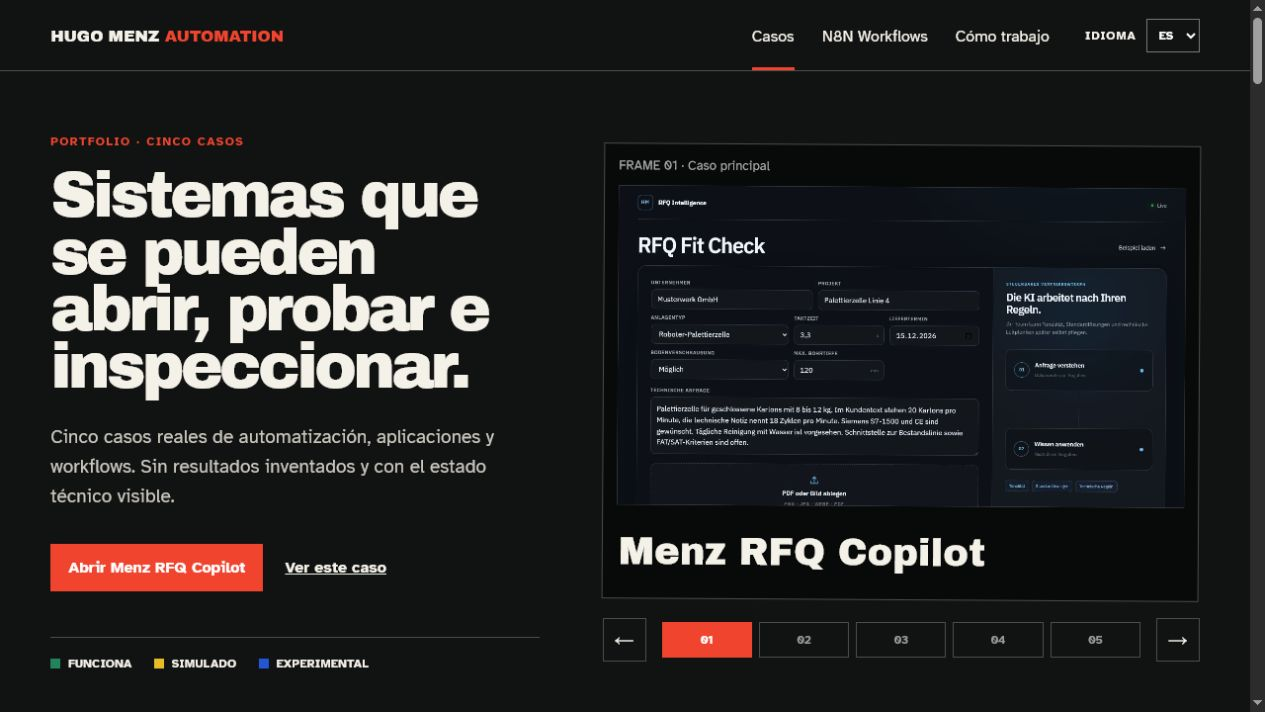
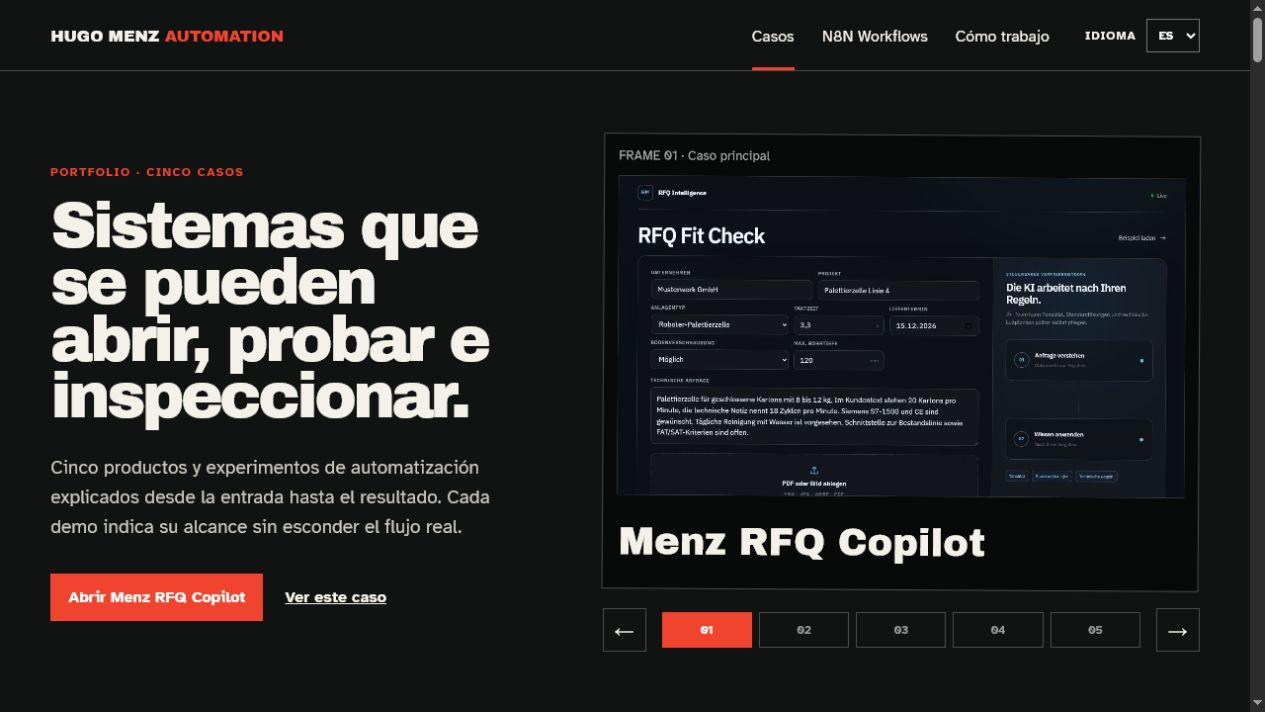
Clarify project flows and redesign case layouts

diff --git a/src/app.js b/src/app.js
@@ -8,23 +8,39 @@ const projectMeta = {
   rfq: {
     image: 'rfq.png', workflow: 'rfq-workflow.png', n8n: 'n8n-rfq.jpg', index: '01', short: 'RFQ',
     demo: 'https://hugomenz.github.io/rfq-intelligence-live/', repo: 'https://github.com/hugomenz/rfq-intelligence-live',
+    platforms: ['custom', 'n8n', 'github'],
   },
   rag: {
     image: 'rag-security.png', workflow: 'rag-workflow.png', n8n: 'n8n-rag.jpg', index: '02', short: 'RAG',
     demo: 'https://hugomenz.github.io/second-brain/', repo: 'https://github.com/hugomenz/second-brain',
+    platforms: ['custom', 'n8n', 'supabase', 'obsidian', 'github'],
   },
   fridge: {
     image: 'fridgeflow.png', workflow: 'fridge-workflow.png', n8n: 'n8n-fridge.jpg', index: '03', short: 'FRIDGE',
     demo: 'https://hugomenz.github.io/fridge-flow/', repo: 'https://github.com/hugomenz/fridge-flow',
+    platforms: ['custom', 'n8n', 'telegram', 'supabase'],
   },
   agent: {
     image: 'agent-observatory.png', workflow: 'agent-workflow.png', n8n: 'n8n-agent.jpg', index: '04', short: 'AGENTS',
-    demo: 'https://hugomenz.github.io/agent-chaos-lab/logger/', repo: 'https://github.com/hugomenz/agent-chaos-lab',
+    demo: 'https://hugomenz.github.io/agent-chaos-lab/exp-app/', secondaryDemo: 'https://hugomenz.github.io/agent-chaos-lab/logger/',
+    imageLink: 'https://hugomenz.github.io/agent-chaos-lab/logger/', repo: 'https://github.com/hugomenz/agent-chaos-lab',
+    platforms: ['custom', 'n8n', 'supabase', 'github'],
   },
   music: {
     image: 'music-school.png', workflow: 'music-workflow.png', n8n: null, index: '05', short: 'MUSIC',
     demo: 'https://hugomenz.github.io/music-school-automation/', repo: 'https://github.com/hugomenz/music-school-automation',
+    platforms: ['custom', 'n8n', 'telegram'], extensionPlatform: 'twilio',
   },
+};
+
+const platformMeta = {
+  custom: { mark: 'HM', label: 'custom' },
+  n8n: { icon: 'https://cdn.simpleicons.org/n8n/EA4B71', label: 'n8n' },
+  telegram: { icon: 'https://cdn.simpleicons.org/telegram/26A5E4', label: 'telegram' },
+  supabase: { icon: 'https://cdn.simpleicons.org/supabase/3FCF8E', label: 'supabase' },
+  obsidian: { icon: 'https://cdn.simpleicons.org/obsidian/7C3AED', label: 'obsidian' },
+  github: { icon: 'https://cdn.simpleicons.org/github/FFFFFF', label: 'github' },
+  twilio: { icon: 'https://cdn.simpleicons.org/twilio/F22F46', label: 'twilio' },
 };
 
 let messages = null;
@@ -71,8 +87,15 @@ function updateRouteLinks(language) {
   });
 }
 
-function statusRow(label, value, type) {
-  return `<div class="truth-row"><span><i class="${type}"></i>${label}</span><p>${value}</p></div>`;
+function renderPlatforms(keys) {
+  return `<ul class="platform-list">${keys.map((key) => {
+    const platform = platformMeta[key];
+    const label = messages.platforms[platform.label];
+    const visual = platform.icon
+      ? `<img src="${platform.icon}" alt="" loading="lazy" />`
+      : `<span class="platform-mark" aria-hidden="true">${platform.mark}</span>`;
+    return `<li>${visual}<span>${label}</span></li>`;
+  }).join('')}</ul>`;
 }
 
 function updateHeroSlide(position) {
@@ -83,7 +106,7 @@ function updateHeroSlide(position) {
   const frame = document.querySelector('#hero-frame');
   if (!frame) return;
 
-  frame.href = meta.demo;
+  frame.href = meta.imageLink || meta.demo;
   frame.setAttribute('aria-label', `${messages.actions.openDemo}: ${project.name}`);
   document.querySelector('#hero-frame-index').textContent = `${messages.hero.frame} ${meta.index} · ${project.role}`;
   document.querySelector('#hero-image').src = assetUrl(meta.image);
@@ -137,29 +160,34 @@ function renderProjects() {
     const project = messages.projects[key];
     const meta = projectMeta[key];
     return `<article id="project-${key}" class="project ${key === 'rfq' ? 'principal' : ''}" data-scroll-section data-nav-label="${project.name}">
+      <header class="project-heading">
+        <div class="project-number">${meta.index}</div>
+        <div><p class="eyebrow">${project.role}</p><h2>${project.name}</h2><p class="summary">${project.summary}</p></div>
+      </header>
       <div class="project-visuals">
-        <a class="project-image" href="${meta.demo}" aria-label="${messages.actions.openDemo}: ${project.name}">
-          <span>${messages.hero.frame} ${meta.index} · ${project.role}</span><img src="${assetUrl(meta.image)}" alt="${project.imageAlt}" loading="lazy" />
+        <a class="project-image" href="${meta.imageLink || meta.demo}" aria-label="${messages.actions.openDemo}: ${project.name}">
+          <span>${messages.hero.frame} ${meta.index} · ${project.visualLabel}</span><img src="${assetUrl(meta.image)}" alt="${project.imageAlt}" loading="lazy" />
         </a>
         <button class="workflow-image workflow-zoom" type="button" data-open-dialog="${key}" data-dialog-kind="diagram" aria-label="${messages.workflow.zoom}: ${project.name}">
           <span>${messages.workflow.label} · ${messages.workflow.zoom}</span><img src="${assetUrl(meta.workflow)}" alt="${messages.workflow.diagramAlt}: ${project.name}" loading="lazy" />
         </button>
       </div>
-      <div class="project-copy">
-        <div class="project-number">${meta.index}</div><h2>${project.name}</h2><p class="summary">${project.summary}</p>
-        <dl>
-          <div><dt>${messages.labels.problem}</dt><dd>${project.problem}</dd></div>
-          <div><dt>${messages.labels.solution}</dt><dd>${project.solution}</dd></div>
-          <div><dt>${messages.labels.how}</dt><dd>${project.how}</dd></div>
-          <div><dt>${messages.labels.try}</dt><dd>${project.try}</dd></div>
-        </dl>
-        <div class="truth-table">
-          ${statusRow(messages.status.working, project.working, 'working')}
-          ${statusRow(messages.status.simulated, project.simulated, 'simulated')}
-          ${statusRow(messages.status.experimental, project.experimental, 'experimental')}
+      <div class="project-content-grid">
+        <div class="project-copy">
+          <dl>
+            <div><dt>${messages.labels.problem}</dt><dd>${project.problem}</dd></div>
+            <div><dt>${messages.labels.solution}</dt><dd>${project.solution}</dd></div>
+            <div><dt>${messages.labels.how}</dt><dd>${project.how}</dd></div>
+          </dl>
+          <div class="demo-note"><p class="eyebrow">${messages.labels.try}</p><p>${project.try}</p></div>
         </div>
-        <p class="tech"><b>${messages.labels.technology}</b> ${project.tech}</p>
-        <div class="project-actions"><a class="primary" href="${meta.demo}">${messages.actions.openDemo}</a><a href="${routeUrl('workflows', document.documentElement.lang, `workflow-${key}`)}">${messages.actions.viewWorkflow}</a><a href="${meta.repo}">${messages.actions.openRepo}</a></div>
+        <aside class="project-details">
+          <div class="flow-card"><p class="eyebrow">${messages.labels.flow}</p><ol>${project.flow.map((item) => `<li>${item}</li>`).join('')}</ol></div>
+          <div class="scope-note"><p class="eyebrow">${messages.labels.scope}</p><p>${project.scope}</p></div>
+          <div class="platforms"><p class="eyebrow">${messages.labels.platforms}</p>${renderPlatforms(meta.platforms)}</div>
+          ${project.extension ? `<div class="project-extension"><div>${renderPlatforms([meta.extensionPlatform])}</div><p><b>${messages.labels.extension}</b> ${project.extension}</p></div>` : ''}
+          <div class="project-actions"><a class="primary" href="${meta.demo}">${messages.actions.openDemo}</a>${meta.secondaryDemo ? `<a href="${meta.secondaryDemo}">${messages.actions.openObservatory}</a>` : ''}<a href="${routeUrl('workflows', document.documentElement.lang, `workflow-${key}`)}">${messages.actions.viewWorkflow}</a><a href="${meta.repo}">${messages.actions.openRepo}</a></div>
+        </aside>
       </div>
     </article>`;
   }).join('');
@@ -176,20 +204,23 @@ function renderWorkflowCases() {
     const visualLabel = meta.n8n ? messages.workflowPage.labels.editor : messages.workflowPage.labels.diagram;
     return `<article id="workflow-${key}" class="workflow-case" data-scroll-section data-nav-label="${project.name}">
       <header class="workflow-case-head"><p class="eyebrow">${meta.index} · ${project.name}</p><h2>${data.title}</h2><p>${data.summary}</p></header>
-      <div class="workflow-case-grid">
-        <button class="workflow-screenshot" type="button" data-open-dialog="${key}" data-dialog-kind="workflow" aria-label="${messages.workflow.zoom}: ${data.title}">
-          <span>${visualLabel} · ${messages.workflow.zoom}</span><img src="${assetUrl(visual)}" alt="${data.imageAlt}" loading="lazy" />
-        </button>
-        <div class="workflow-explanation">
+      <button class="workflow-screenshot" type="button" data-open-dialog="${key}" data-dialog-kind="workflow" aria-label="${messages.workflow.zoom}: ${data.title}">
+        <span>${visualLabel} · ${messages.workflow.zoom}</span><img src="${assetUrl(visual)}" alt="${data.imageAlt}" loading="lazy" />
+      </button>
+      <div class="workflow-explanation">
+        <div>
           <dl>
             <div><dt>${messages.workflowPage.labels.why}</dt><dd>${data.why}</dd></div>
             <div><dt>${messages.workflowPage.labels.purpose}</dt><dd>${data.purpose}</dd></div>
             <div><dt>${messages.workflowPage.labels.how}</dt><dd>${data.how}</dd></div>
           </dl>
+        </div>
+        <aside class="workflow-details">
           <div class="workflow-set"><p class="eyebrow">${messages.workflowPage.labels.set}</p><ul>${data.set.map((item) => `<li>${item}</li>`).join('')}</ul></div>
           <p class="workflow-state"><b>${messages.workflowPage.labels.state}</b> ${data.state}</p>
-          <div class="project-actions"><a class="primary" href="${meta.demo}">${messages.actions.openDemo}</a><a href="${meta.repo}">${messages.actions.openRepo}</a></div>
-        </div>
+          <div class="platforms"><p class="eyebrow">${messages.labels.platforms}</p>${renderPlatforms(meta.platforms)}</div>
+          <div class="project-actions"><a class="primary" href="${meta.demo}">${messages.actions.openDemo}</a>${meta.secondaryDemo ? `<a href="${meta.secondaryDemo}">${messages.actions.openObservatory}</a>` : ''}<a href="${meta.repo}">${messages.actions.openRepo}</a></div>
+        </aside>
       </div>
     </article>`;
   }).join('');

diff --git a/src/app.css b/src/app.css
@@ -54,12 +54,6 @@ main { max-width: 1600px; margin: 0 auto; padding: 0 clamp(20px, 4vw, 64px); }
 .hero-copy > p:not(.eyebrow), .page-hero-copy p { max-width: 60ch; color: #c9c6bd; font-size: 1.2rem; line-height: 1.55; }
 .hero-actions, .project-actions { display: flex; flex-wrap: wrap; align-items: center; gap: 22px; margin-top: 32px; }
 .hero-actions a, .project-actions a { font-weight: 700; }
-.legend { display: flex; flex-wrap: wrap; gap: 22px; margin-top: 46px; padding-top: 18px; border-top: 1px solid var(--rule); }
-.legend span, .truth-row span { display: flex; align-items: center; gap: 8px; font-size: .78rem; text-transform: uppercase; }
-.legend i, .truth-row i { display: block; width: 10px; height: 10px; }
-.working { background: var(--green); }
-.simulated { background: var(--yellow); }
-.experimental { background: var(--blue); }
 
 .hero-showcase { align-self: center; min-width: 0; }
 .hero-frame, .project-image, .workflow-image, .workflow-screenshot { display: flex; min-width: 0; flex-direction: column; padding: 14px; border: 1px solid var(--rule); background: var(--panel); text-align: left; text-decoration: none; }
@@ -81,27 +75,40 @@ main { max-width: 1600px; margin: 0 auto; padding: 0 clamp(20px, 4vw, 64px); }
 .index-strip a + a { padding-left: 22px; border-left: 1px solid var(--rule); }
 .index-strip a span { color: var(--red); }
 
-.project { display: grid; grid-template-columns: minmax(420px, 1.15fr) minmax(340px, .85fr); gap: clamp(34px, 6vw, 90px); padding: 90px 0; border-bottom: 1px solid var(--rule); }
-.project:nth-child(even) { grid-template-columns: minmax(340px, .85fr) minmax(420px, 1.15fr); }
-.project:nth-child(even) .project-visuals { grid-column: 2; }
-.project:nth-child(even) .project-copy { grid-row: 1; grid-column: 1; }
-.project-visuals { display: grid; align-self: start; min-width: 0; gap: 16px; }
+.project { padding: 100px 0; border-bottom: 1px solid var(--rule); }
+.project-heading { display: grid; grid-template-columns: 90px minmax(0, 1fr); gap: clamp(24px, 4vw, 64px); max-width: 1200px; margin-bottom: 42px; }
+.project-heading .eyebrow { margin-bottom: 12px; }
+.project-heading h2 { margin-top: 0; }
+.project-heading .summary { max-width: 60ch; margin-bottom: 0; }
+.project-visuals { display: grid; grid-template-columns: 1fr; align-items: stretch; min-width: 0; gap: 16px; }
 .project-image { align-self: start; }
+.project-image img { aspect-ratio: 16 / 8.5; }
 .workflow-image { width: 100%; cursor: zoom-in; }
-.workflow-image img { display: block; width: 100%; height: auto; max-height: 360px; background: white; object-fit: contain; }
+.workflow-image img { display: block; width: 100%; height: auto; max-height: 230px; background: white; object-fit: contain; }
 .workflow-image:hover, .workflow-image:focus-visible { border-color: var(--red); }
 .project-number { color: var(--red); font-family: 'Archivo Black', sans-serif; font-size: 1.1rem; }
 .project h2, .workflow-case h2, .approach-section h2, .approach-closing h2 { margin: 18px 0; font-family: 'Archivo Black', sans-serif; font-size: clamp(2.6rem, 5vw, 5.5rem); line-height: .93; letter-spacing: -.05em; }
 .summary { color: #d3d0c8; font-size: 1.25rem; line-height: 1.5; }
-.project dl, .workflow-explanation dl { margin: 34px 0 0; border-top: 1px solid var(--rule); }
+.project-content-grid, .workflow-explanation { display: grid; grid-template-columns: minmax(0, 1fr) minmax(360px, .82fr); gap: clamp(40px, 7vw, 110px); margin-top: 48px; }
+.project dl, .workflow-explanation dl { margin: 0; border-top: 1px solid var(--rule); }
 .project dl div, .workflow-explanation dl div { display: grid; grid-template-columns: 110px 1fr; gap: 18px; padding: 18px 0; border-bottom: 1px solid var(--rule); }
 .project dt, .workflow-explanation dt { color: #999; font-size: .74rem; font-weight: 700; text-transform: uppercase; }
 .project dd, .workflow-explanation dd { margin: 0; line-height: 1.5; }
-.truth-table { margin-top: 28px; }
-.truth-row { display: grid; grid-template-columns: 130px 1fr; gap: 18px; padding: 13px 0; border-bottom: 1px solid var(--rule); }
-.truth-row p { margin: 0; color: #ccc; }
-.tech { color: #aaa; line-height: 1.5; }
-.tech b { color: white; }
+.demo-note, .scope-note { margin-top: 24px; padding: 22px; border: 1px solid var(--rule); background: #161919; }
+.demo-note p:last-child, .scope-note p:last-child { margin: 12px 0 0; color: #ccc; line-height: 1.5; }
+.flow-card { padding: 26px; border: 1px solid var(--rule); background: var(--panel); }
+.flow-card ol { display: grid; gap: 0; margin: 18px 0 0; padding: 0; list-style: none; counter-reset: flow; }
+.flow-card li { position: relative; padding: 14px 0 14px 48px; border-top: 1px solid #333; color: #ddd; line-height: 1.4; counter-increment: flow; }
+.flow-card li::before { position: absolute; top: 12px; left: 0; color: var(--red); font-family: 'Archivo Black', sans-serif; content: counter(flow, decimal-leading-zero); }
+.platforms { margin-top: 28px; }
+.platform-list { display: flex; flex-wrap: wrap; gap: 10px; margin: 14px 0 0; padding: 0; list-style: none; }
+.platform-list li { display: inline-flex; align-items: center; gap: 9px; min-height: 42px; padding: 8px 12px; border: 1px solid var(--rule); background: var(--panel); color: #ddd; font-size: .86rem; font-weight: 700; }
+.platform-list img, .platform-mark { width: 24px; height: 24px; flex: 0 0 auto; }
+.platform-mark { display: grid; place-items: center; background: var(--red); color: white; font-size: .62rem; }
+.project-extension { display: grid; grid-template-columns: auto 1fr; align-items: center; gap: 16px; margin-top: 22px; padding: 16px; border: 1px dashed #777; }
+.project-extension .platform-list { margin: 0; }
+.project-extension .platform-list li { padding: 7px 10px; }
+.project-extension p { margin: 0; color: #ccc; line-height: 1.45; }
 
 .page-hero { padding: clamp(80px, 11vw, 160px) 0 90px; border-bottom: 1px solid var(--rule); }
 .page-hero h1 { max-width: 13ch; }
@@ -113,10 +120,10 @@ main { max-width: 1600px; margin: 0 auto; padding: 0 clamp(20px, 4vw, 64px); }
 .workflow-case-head .eyebrow { grid-row: 1 / span 2; padding-top: 14px; }
 .workflow-case-head h2 { margin: 0; }
 .workflow-case-head > p:last-child { max-width: 62ch; margin: 0; color: #ccc; font-size: 1.1rem; line-height: 1.5; }
-.workflow-case-grid { display: grid; grid-template-columns: minmax(470px, 1.2fr) minmax(340px, .8fr); align-items: start; gap: clamp(34px, 6vw, 90px); }
 .workflow-screenshot { width: 100%; cursor: zoom-in; }
 .workflow-screenshot:hover, .workflow-screenshot:focus-visible { border-color: var(--red); }
-.workflow-screenshot img { display: block; width: 100%; height: auto; background: #111; object-fit: contain; }
+.workflow-screenshot img { display: block; width: 100%; height: auto; max-height: 760px; background: #111; object-fit: contain; }
+.workflow-details { min-width: 0; }
 .workflow-set { margin-top: 28px; padding: 22px; border: 1px solid var(--rule); background: var(--panel); }
 .workflow-set ul { display: grid; gap: 8px; margin: 14px 0 0; padding-left: 20px; color: #ccc; }
 .workflow-state { padding: 18px 0; border-bottom: 1px solid var(--rule); color: #ccc; line-height: 1.5; }
@@ -165,9 +172,7 @@ footer { display: flex; justify-content: space-between; gap: 30px; padding: 28px
 @media (max-width: 1050px) {
   .hero { grid-template-columns: 1fr; min-height: auto; }
   .hero-frame { transform: none; }
-  .project, .project:nth-child(even), .workflow-case-grid { grid-template-columns: 1fr; }
-  .project:nth-child(even) .project-visuals, .project:nth-child(even) .project-copy { grid-row: auto; grid-column: auto; }
-  .project-image img { aspect-ratio: 16 / 9; }
+  .project-content-grid, .workflow-explanation { grid-template-columns: 1fr; }
   .page-hero-copy, .workflow-case-head { grid-template-columns: 1fr; }
   .workflow-case-head .eyebrow { grid-row: auto; }
   .approach-section { grid-template-columns: 64px 1fr; }
@@ -191,8 +196,13 @@ footer { display: flex; justify-content: space-between; gap: 30px; padding: 28px
   .index-strip { display: grid; grid-template-columns: 1fr 1fr; white-space: normal; }
   .index-strip a, .index-strip a + a { padding: 14px 10px; border: 0; border-bottom: 1px solid var(--rule); }
   .project, .workflow-case { padding: 64px 0; }
+  .project-heading { grid-template-columns: 1fr; gap: 12px; }
+  .project-visuals { grid-template-columns: 1fr; }
+  .project-image img { aspect-ratio: 16 / 10; }
+  .workflow-image img { min-height: 130px; max-height: 220px; }
   .project h2, .workflow-case h2, .approach-section h2 { font-size: clamp(2.6rem, 13vw, 4.4rem); }
-  .project dl div, .truth-row, .workflow-explanation dl div { grid-template-columns: 1fr; gap: 6px; }
+  .project dl div, .workflow-explanation dl div { grid-template-columns: 1fr; gap: 6px; }
+  .project-content-grid, .workflow-explanation { gap: 32px; margin-top: 32px; }
   .workflow-case-head { margin-bottom: 28px; }
   .page-hero { padding: 70px 0 60px; }
   .approach-section { grid-template-columns: 1fr; padding: 64px 0; }

diff --git a/src/index.html b/src/index.html
@@ -28,7 +28,6 @@
           <h1 id="hero-title" data-i18n="hero.title">Sistemas que se pueden abrir, probar e inspeccionar.</h1>
           <p data-i18n="hero.lead">Cinco casos reales de automatización, aplicaciones y workflows. Sin resultados inventados y con el estado técnico visible.</p>
           <div class="hero-actions"><a id="hero-open" class="primary"></a><a id="hero-view"></a></div>
-          <div class="legend"><span><i class="working"></i><b data-i18n="status.working">Funciona</b></span><span><i class="simulated"></i><b data-i18n="status.simulated">Simulado</b></span><span><i class="experimental"></i><b data-i18n="status.experimental">Experimental</b></span></div>
         </div>
 
         <div class="hero-showcase" aria-live="polite">

diff --git a/DESIGN.md b/DESIGN.md
@@ -2,26 +2,26 @@
 
 ## World and colour
 
-The portfolio is an inspection contact sheet on a near-black proofing table (`#111313`). Real project screenshots sit in darker mounts with thin grey proofing rules; warm paper (`#f4f1e8`) provides the primary type colour. Vermilion (`#f0442e`) acts like a grease-pencil mark for identity, numbering and primary actions. Green (`#23835c`), yellow (`#e8bc26`) and blue (`#2256d7`) consistently identify working, simulated and experimental status.
+The portfolio is an inspection contact sheet on a near-black proofing table (`#111313`). Real project screenshots sit in darker mounts with thin grey proofing rules; warm paper (`#f4f1e8`) provides the primary type colour. Vermilion (`#f0442e`) acts like a grease-pencil mark for identity, numbering and primary actions. Platform colours appear only inside their logos.
 
 ## Typography
 
-Archivo Black carries the brand, oversized thesis and project identities with tight tracking and compressed line height. Atkinson Hyperlegible carries explanations, captions, evidence definitions and truth tables at regular and bold weights. Frame captions, index labels and status labels use compact uppercase text; summaries are larger and more open.
+Archivo Black carries the brand, oversized thesis and project identities with tight tracking and compressed line height. Atkinson Hyperlegible carries explanations, captions, definitions and scope notes at regular and bold weights. Frame captions and index labels use compact uppercase text; summaries are larger and more open.
 
 ## Composition and spacing
 
-The content is centered at a maximum width of 1600px with fluid 20–64px gutters. The first viewport pairs the thesis with a five-project slider; its image, title, demo CTA and case anchor change together. A ruled index introduces five project sections, which alternate screenshot and evidence copy. N8N Workflows and the delivery approach live on separate routes so the home page remains focused on the cases.
+The content is centered at a maximum width of 1600px with fluid 20–64px gutters. The first viewport pairs the thesis with a five-project slider; its image, title, demo CTA and case anchor change together. A ruled index introduces five project sections. Each section uses a full-width product screenshot and workflow strip, followed by two text columns: explanation on the left and flow, scope, platforms and actions on the right. N8N Workflows uses the same full-width-image and two-column pattern.
 
-Below 1050px the hero, project rows, workflow explanations and approach sections stack, and the hero frame loses its slight rotation. Below 780px the primary navigation moves to a second sticky row, the index becomes a two-column list, definition and truth rows stack, and the portfolio reads as a vertical proof strip without changing evidence order.
+Below 1050px the hero, case content, workflow explanations and approach sections stack, and the hero frame loses its slight rotation. Below 780px the primary navigation moves to a second sticky row, the index becomes a two-column list, definition rows stack, and the portfolio reads as a vertical proof strip without changing information order.
 
 ## Components and interaction
 
-The system uses proof frames, frame captions, a status legend, ruled definition lists, repeated truth rows and direct rectangular actions. A sticky top bar provides route navigation. After 220px of scroll, a section index follows the active project; narrower viewports receive a fixed section selector. High-level workflow images are buttons that open a native dialog with a larger canvas and a route link to the matching n8n explanation. Screenshots remain visual evidence rather than decoration.
+The system uses proof frames, frame captions, ruled definition lists, numbered flow cards, compact platform-logo chips and direct rectangular actions. A sticky top bar provides route navigation. After 220px of scroll, a section index follows the active project; narrower viewports receive a fixed section selector. High-level workflow images are buttons that open a native dialog with a larger canvas and a route link to the matching n8n explanation. Screenshots remain visual evidence rather than decoration.
 
 ## Accessibility
 
-The implementation provides semantic navigation and sections, descriptive localized image alt text, labelled image buttons, a labelled language selector, visible focus outlines and an `aria-live` slider and project region. Status colours always appear with translated text labels. The zoom surface uses native `dialog`, supports Escape and backdrop close, and keeps a visible close action. Reduced-motion preferences disable smooth scrolling and transitions.
+The implementation provides semantic navigation and sections, descriptive localized image alt text, labelled image buttons, a labelled language selector, visible focus outlines and an `aria-live` slider and project region. Platform icons always appear with translated text labels. The zoom surface uses native `dialog`, supports Escape and backdrop close, and keeps a visible close action. Reduced-motion preferences disable smooth scrolling and transitions.
 
 ## Truth and internationalisation rules
 
-Every project repeats the same three labelled evidence rows: green `Working`, yellow `Simulated` and blue `Experimental`. These statuses stay separate rather than collapsing into a single completion claim, and every case exposes both demo and repository links. Spanish, English and German use identical key structures in separate JSON files; changing language updates visible copy, image descriptions, title and description, and stores the preference locally. Translations may change language, never the underlying status or claim.
+Every project explains one coherent product flow, then adds a single scope note that distinguishes the public demo from credentialed integrations. This avoids repeated status labels while keeping claims specific. Every case exposes a demo and repository link; Agent Chaos Lab also links directly to Observatory. Spanish, English and German use identical key structures in separate JSON files; changing language updates visible copy, image descriptions, title and description, and stores the preference locally.

diff --git a/README.md b/README.md
@@ -12,13 +12,13 @@ Trilingual GitHub Pages portfolio for five inspectable automation and workflow c
 
 ## Projects
 
-1. Menz RFQ Copilot, primary working case.
-2. Second Brain RAG Security Lab, technical differentiator.
-3. FridgeFlow, human-facing product.
-4. Agent Observatory, experimental architecture and observability.
-5. Music School Automation, enquiry and n8n-to-Telegram handoff.
+1. Menz RFQ Copilot, technical-request qualification before an offer.
+2. Second Brain, AI-organised notes, RAG questions, Obsidian export and a prompt-injection security lab.
+3. FridgeFlow, Telegram voice input, structured inventory events, Supabase and an administration UI.
+4. Agent Chaos Lab, a webhook and CRUD experiment coordinated through n8n, with Agent Observatory as its runtime view.
+5. Music School Automation, course enquiries and an n8n-to-Telegram handoff, with Twilio documented only as a possible extension.
 
-Every case distinguishes working, simulated and experimental parts. The home page contains the five project cases, the dedicated `/workflows/` route explains the real n8n architecture, and `/approach/` documents the delivery method. Screenshots in `src/assets` were captured from the current local builds. The n8n page uses the real local editor after importing the versioned workflow JSON files; it does not claim production executions.
+Every case explains the complete product, its five-step flow, connected platforms and one concise public-demo scope note. The home page contains the five project cases, the dedicated `/workflows/` route explains how each n8n workflow set collaborates, and `/approach/` documents the delivery method. Screenshots in `src/assets` were captured from the current local builds and n8n editor.
 
 ## Run
 
@@ -31,6 +31,6 @@ Translations are maintained independently in `src/i18n/es.json`, `en.json` and `
 
 ## Architecture
 
-The portfolio is a dependency-free multipage static application. `src/app.js` loads one of the three translation JSON files and renders the home cases, workflow explanations or approach sections according to the current route. The home slider changes its project and CTAs, the section navigator follows scroll position, and native dialogs enlarge diagrams without leaving the site. Real application screenshots and exported workflow diagrams are versioned in `src/assets`; no external API, credential or personal dataset is required at runtime.
+The portfolio is a dependency-free multipage static application. `src/app.js` loads one of the three translation JSON files and renders the home cases, workflow explanations or approach sections according to the current route. Each case uses a full-width screenshot followed by two content columns, platform logos, project-specific actions and a zoomable workflow diagram. The home slider changes its project and CTAs, the section navigator follows scroll position, and native dialogs enlarge diagrams without leaving the site. No credential or personal dataset is required at runtime.
 
-`npm run check` verifies translation parity, five projects and workflow cases, three routes, slider, scroll navigation, native dialog, LinkedIn footer, responsive CSS, screenshot presence, and common secret patterns before building `dist/` for GitHub Pages.
+`npm run check` verifies translation parity, five projects and workflow cases, complete project flows, platform logos, the absence of the old repeated status grid, three routes, slider, scroll navigation, native dialog, LinkedIn footer, responsive CSS, screenshot presence and common secret patterns before building `dist/` for GitHub Pages.

diff --git a/PRODUCT.md b/PRODUCT.md
@@ -16,11 +16,11 @@ Potential clients and collaborators evaluating Hugo Menz for automation, AI work
 
 ## Product Purpose
 
-Present five honest case studies with real application screenshots, guided demos, repository links and a clear distinction between working functionality, simulation and experimental architecture.
+Present five inspectable case studies with real application screenshots, guided demos, repository links, end-to-end flows and a concise scope note beside each project.
 
 ## Positioning
 
-The portfolio proves work through inspectable applications and workflows. Menz RFQ Copilot is the principal case, RAG Security is the technical differentiator, FridgeFlow is the user-facing product, and Agent Observatory and Music School show architecture and automation.
+The portfolio proves work through inspectable applications and workflows. Menz RFQ Copilot is the principal case, Second Brain combines a useful note product with RAG security, FridgeFlow is the user-facing product, Agent Chaos Lab is the multi-agent experiment with Observatory as its runtime surface, and Music School shows enquiry automation.
 
 ## Operating Context
 
@@ -31,7 +31,7 @@ Visitors scan the five cases on the home route, inspect implementation detail on
 - All five projects use real screenshots captured from the current local builds.
 - Translations live in separate `src/i18n/*.json` files.
 - Commercial results, customers, metrics and production-readiness are not claimed.
-- External integrations that require credentials are labelled template, simulated or experimental.
+- External integrations that require credentials are explained in a short project-specific demo scope note.
 - High-level diagrams open in a native zoom dialog. They never send visitors to an external design tool.
 - A scroll-aware section index remains available after the header leaves the first viewport.
 
@@ -42,7 +42,7 @@ Evidence consists of the five repositories, deployed demos, local build/test out
 ## Product Principles
 
 - Show the application before explaining it.
-- Put real, simulated and experimental status beside the relevant claim.
+- Explain the product first, then state public-demo boundaries once in plain language.
 - Use ordinary language before implementation details.
 - Keep the principal action visible: open the demo or inspect the repository.
 - Explain workflow purpose and boundaries before listing nodes or services.
